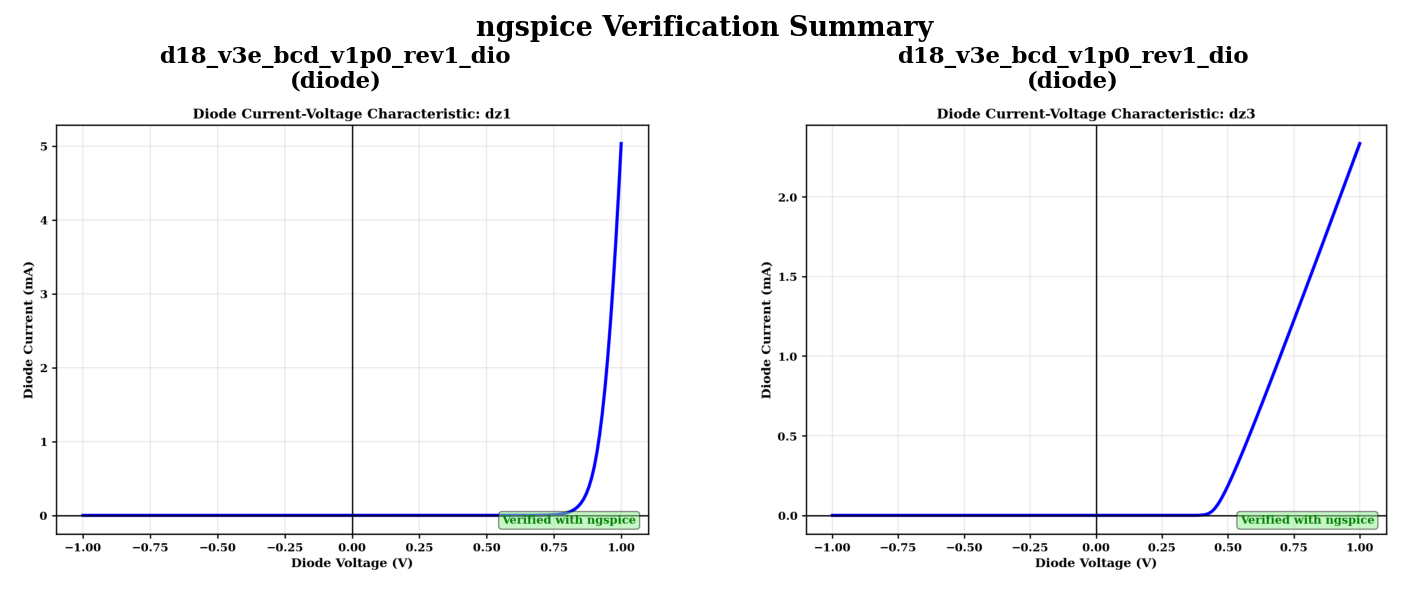
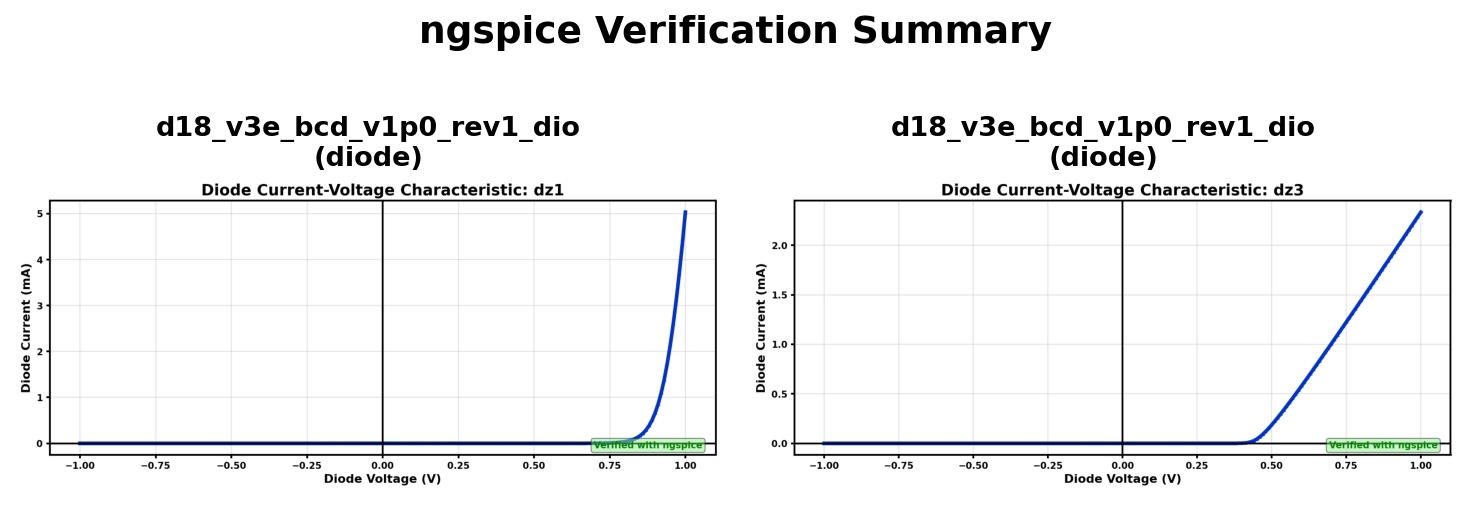
update

diff --git a/generate_verification_plots.py b/generate_verification_plots.py
@@ -30,25 +30,38 @@ import matplotlib.pyplot as plt
 import numpy as np
 
 IEEE_FONT_FAMILY = [
-    'Times New Roman',
-    'Times',
-    'Nimbus Roman No9 L',
-    'DejaVu Serif',
+    'Arial',
+    'Liberation Sans',
+    'DejaVu Sans',
 ]
-IEEE_LABEL_FONT_SIZE = 11
+FIGSIZE = (11, 5)
+IEEE_LABEL_FONT_SIZE = 13
 IEEE_TICK_FONT_SIZE = 10
-IEEE_TITLE_FONT_SIZE = 12
+IEEE_TITLE_FONT_SIZE = 17
 IEEE_ANNOTATION_FONT_SIZE = 10
-PLOT_LINE_WIDTH = 2.8
-AXIS_LINE_WIDTH = 1.2
-GRID_LINE_WIDTH = 0.8
+PLOT_LINE_WIDTH = 4.0
+SECONDARY_LINE_WIDTH = 3.0
+AXIS_LINE_WIDTH = 2.0
+GRID_LINE_WIDTH = 1.1
+GRID_ALPHA = 0.35
+
+LINE_COLORS = {
+    'main': '#0033cc',
+    'secondary': '#cc0000',
+    'tertiary': '#7f3fbf',
+    'quaternary': '#e67300',
+    'fifth': '#006400',
+}
 
 plt.rcParams.update({
-    'font.family': 'serif',
-    'font.serif': IEEE_FONT_FAMILY,
+    'font.family': 'sans-serif',
+    'font.sans-serif': IEEE_FONT_FAMILY,
     'font.size': IEEE_LABEL_FONT_SIZE,
+    'font.weight': 'bold',
     'axes.labelsize': IEEE_LABEL_FONT_SIZE,
+    'axes.labelweight': 'bold',
     'axes.titlesize': IEEE_TITLE_FONT_SIZE,
+    'axes.titleweight': 'bold',
     'xtick.labelsize': IEEE_TICK_FONT_SIZE,
     'ytick.labelsize': IEEE_TICK_FONT_SIZE,
     'legend.fontsize': IEEE_LABEL_FONT_SIZE,
@@ -211,14 +224,16 @@ def _select_y_column(matrix: np.ndarray) -> int:
 
 def _apply_ieee_axis_style(ax) -> None:
     """Apply IEEE-friendly visual styling for readability in papers."""
-    ax.tick_params(axis='both', which='major', width=AXIS_LINE_WIDTH, length=4)
+    ax.grid(alpha=GRID_ALPHA, linewidth=GRID_LINE_WIDTH)
+    ax.tick_params(axis='both', which='major', width=AXIS_LINE_WIDTH, length=4, labelsize=IEEE_TICK_FONT_SIZE)
     for label in ax.get_xticklabels() + ax.get_yticklabels():
         label.set_fontweight('bold')
-        label.set_fontfamily('serif')
+        label.set_fontfamily('sans-serif')
         label.set_fontsize(IEEE_TICK_FONT_SIZE)
     for spine in ax.spines.values():
         spine.set_linewidth(AXIS_LINE_WIDTH)
-    ax.grid(True, alpha=0.35, linewidth=GRID_LINE_WIDTH)
+    ax.spines['top'].set_visible(True)
+    ax.spines['right'].set_visible(True)
 
 
 def _style_legend(legend) -> None:
@@ -549,9 +564,20 @@ quit
         return None
     
     # Create plot
-    fig, ax = plt.subplots(figsize=(8, 6), dpi=150)
+    fig, ax = plt.subplots(figsize=FIGSIZE, dpi=150)
     
-    ax.plot(vgs_plot, id_ma, 'b-', linewidth=PLOT_LINE_WIDTH, label=f'{device.name}')
+    ax.plot(
+        vgs_plot,
+        id_ma,
+        color=LINE_COLORS['main'],
+        linewidth=PLOT_LINE_WIDTH,
+        marker='^',
+        markersize=4,
+        markerfacecolor=LINE_COLORS['main'],
+        markeredgecolor=LINE_COLORS['main'],
+        markeredgewidth=0.8,
+        label=f'{device.name}'
+    )
 
     ax.set_xlabel('Gate-to-Source Voltage Magnitude (V)', fontsize=IEEE_LABEL_FONT_SIZE, fontweight='bold')
     ax.set_ylabel('Drain Current Magnitude (mA)', fontsize=IEEE_LABEL_FONT_SIZE, fontweight='bold')
@@ -690,17 +716,26 @@ quit
         return None
     
     # Create plot
-    fig, ax = plt.subplots(figsize=(8, 6), dpi=150)
+    fig, ax = plt.subplots(figsize=FIGSIZE, dpi=150)
     
-    colors = plt.cm.viridis(np.linspace(0.2, 0.8, len(all_curves)))
+    colors = [
+        LINE_COLORS['main'],
+        LINE_COLORS['secondary'],
+        LINE_COLORS['tertiary'],
+        LINE_COLORS['quaternary'],
+        LINE_COLORS['fifth'],
+    ]
     
     for (vgs, vds, id_ma), color in zip(all_curves, colors):
         ax.plot(
             vds,
             id_ma,
-            '-',
-            linewidth=PLOT_LINE_WIDTH,
+            linewidth=SECONDARY_LINE_WIDTH,
             color=color,
+            marker='o',
+            markersize=3,
+            markerfacecolor=color,
+            markeredgecolor=color,
             label=f'Gate-to-Source Voltage = {vgs:.1f} V'
         )
 
@@ -810,7 +845,7 @@ quit
         return None
     
     # Create semilog plot
-    fig, ax = plt.subplots(figsize=(8, 6), dpi=150)
+    fig, ax = plt.subplots(figsize=FIGSIZE, dpi=150)
     
     vbe_plot = np.abs(vbe_ic)
     ic_plot = np.abs(ic)
@@ -832,7 +867,17 @@ quit
         data_file_ib.unlink(missing_ok=True)
         return None
     
-    ax.semilogy(vbe_plot, ic_plot, 'b-', linewidth=PLOT_LINE_WIDTH, label='Collector Current')
+    ax.semilogy(
+        vbe_plot,
+        ic_plot,
+        color=LINE_COLORS['main'],
+        linewidth=PLOT_LINE_WIDTH,
+        marker='^',
+        markersize=3,
+        markerfacecolor=LINE_COLORS['main'],
+        markeredgecolor=LINE_COLORS['main'],
+        label='Collector Current',
+    )
     if ib_plot is not None and len(ib_plot) > 0:
         ib_x = np.abs(vbe_ib)
         ib_y = np.abs(ib)
@@ -840,7 +885,17 @@ quit
         if q_ib.valid:
             ib_mask = ib_y > 0
             if np.count_nonzero(ib_mask) >= 10:
-                ax.semilogy(ib_x[ib_mask], ib_y[ib_mask], 'r--', linewidth=PLOT_LINE_WIDTH, label='Base Current')
+                ax.semilogy(
+                    ib_x[ib_mask],
+                    ib_y[ib_mask],
+                    color=LINE_COLORS['secondary'],
+                    linewidth=SECONDARY_LINE_WIDTH,
+                    marker='o',
+                    markersize=3,
+                    markerfacecolor=LINE_COLORS['secondary'],
+                    markeredgecolor=LINE_COLORS['secondary'],
+                    label='Base Current',
+                )
 
     ax.set_xlabel('Base-to-Emitter Voltage Magnitude (V)', fontsize=IEEE_LABEL_FONT_SIZE, fontweight='bold')
     ax.set_ylabel('Current (A)', fontsize=IEEE_LABEL_FONT_SIZE, fontweight='bold')
@@ -943,9 +998,18 @@ quit
         return None
     
     # Create plot
-    fig, ax = plt.subplots(figsize=(8, 6), dpi=150)
+    fig, ax = plt.subplots(figsize=FIGSIZE, dpi=150)
     
-    ax.plot(vd, id_ma, 'b-', linewidth=PLOT_LINE_WIDTH)
+    ax.plot(
+        vd,
+        id_ma,
+        color=LINE_COLORS['main'],
+        linewidth=PLOT_LINE_WIDTH,
+        marker='^',
+        markersize=3,
+        markerfacecolor=LINE_COLORS['main'],
+        markeredgecolor=LINE_COLORS['main'],
+    )
 
     ax.set_xlabel('Diode Voltage (V)', fontsize=IEEE_LABEL_FONT_SIZE, fontweight='bold')
     ax.set_ylabel('Diode Current (mA)', fontsize=IEEE_LABEL_FONT_SIZE, fontweight='bold')
